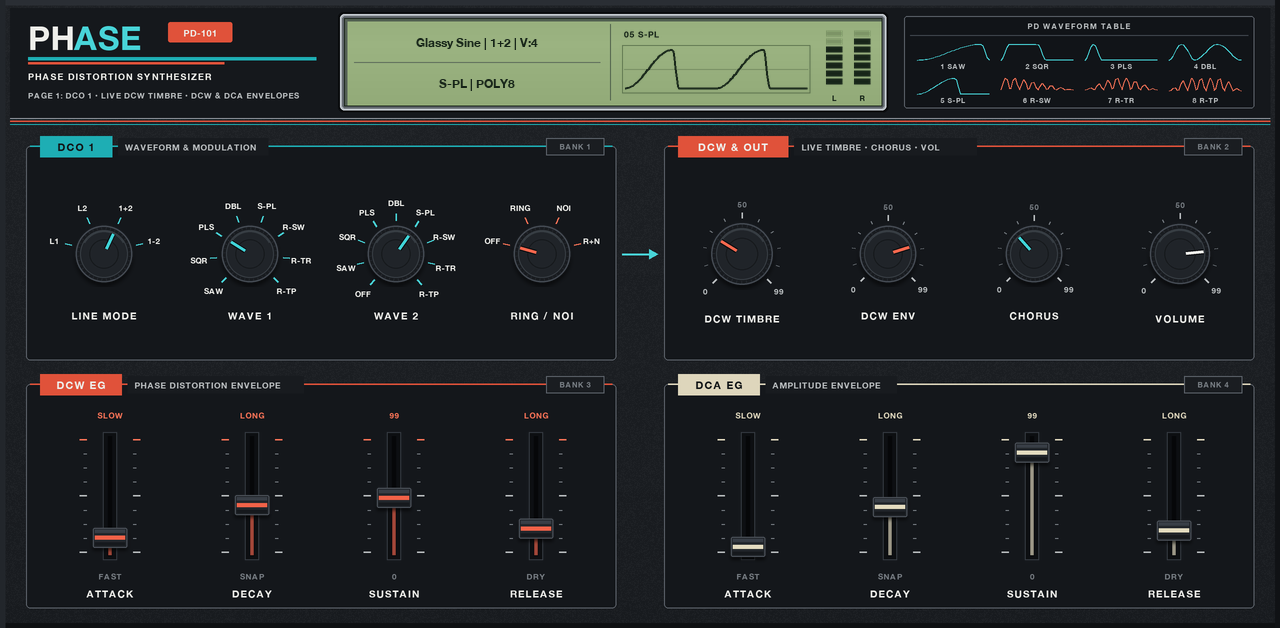
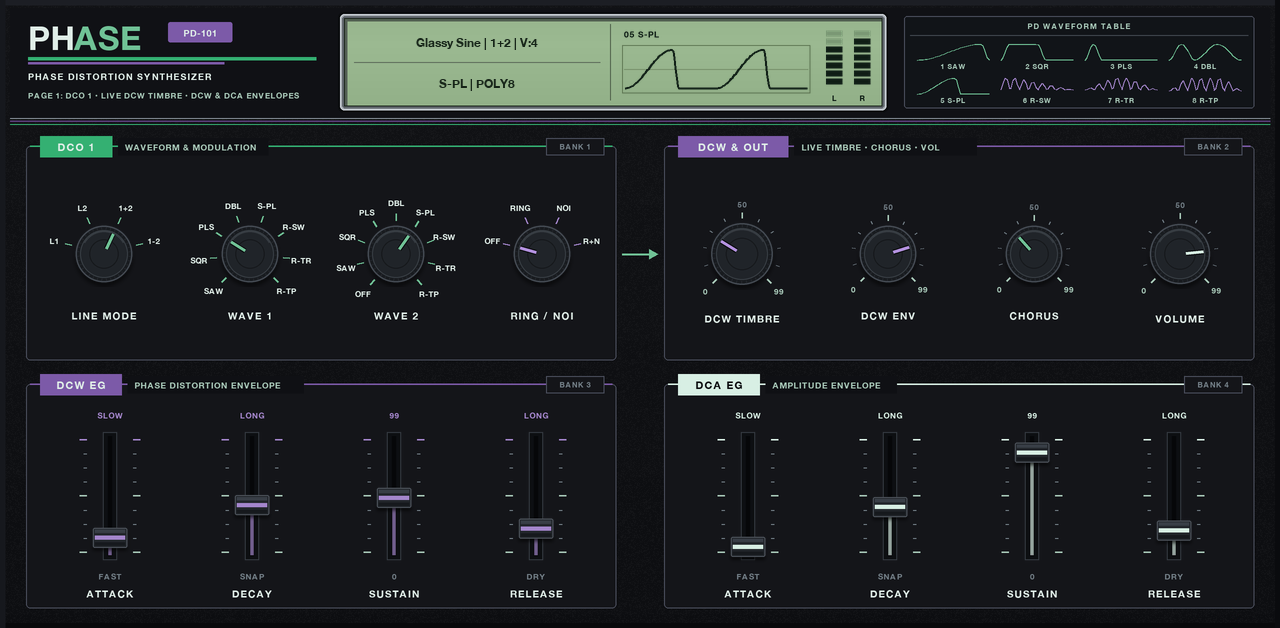
Switch Phase UI faceplate, dials and sliders to purple and green palette

diff --git a/tools/gen_ui_assets.py b/tools/gen_ui_assets.py
@@ -24,25 +24,27 @@ MANIFEST = os.path.join(ROOT, "tools", "ui_manifest.json")
 W, H = 1280, 628
 SS = 2
 
-# 1984 Casio CZ-101 Industrial Palette
-WHITE      = (238, 238, 234, 255)
-OFF_WHITE  = (184, 188, 190, 255)
-MUTED      = (118, 124, 130, 255)
-DARK_INK   = (18, 22, 24, 255)
+# Purple & Green Industrial Palette (matching Johnny's hardware suite)
+WHITE      = (224, 238, 232, 255)  # crisp mint-white
+OFF_WHITE  = (168, 200, 184, 255)  # #A8C8B8
+MUTED      = (114, 126, 134, 255)
+DARK_INK   = (13, 14, 17, 255)     # #0D0E11
 
-CZ_TEAL    = (30, 174, 180, 255)
-CZ_TEAL_HI = (72, 212, 216, 255)
-CZ_CORAL   = (224, 82, 58, 255)
-CZ_CORAL_H = (246, 114, 86, 255)
-CZ_IVORY   = (222, 214, 188, 255)
-CZ_SILVER  = (158, 166, 174, 255)
-CZ_LINE    = (92, 98, 106, 255)
+CZ_TEAL    = (52, 176, 114, 255)   # #34B072 — green primary accent
+CZ_TEAL_HI = (112, 194, 150, 255)  # #70C296 — green highlight / pointers
+CZ_CORAL   = (124, 90, 168, 255)   # #7C5AA8 — purple primary accent
+CZ_CORAL_H = (164, 134, 204, 255)  # #A486CC — purple highlight / resonant waves
+CZ_IVORY   = (216, 239, 228, 255)  # #D8EFE4 — mint-ivory secondary badge & DCA
+CZ_SILVER  = (156, 166, 172, 255)
+CZ_LINE    = (74, 78, 92, 255)
+PURP_BAR   = (90, 62, 122, 255)    # #5A3E7A — purple header/divider
+GRN_BAR    = (38, 94, 72, 255)     # #265E48 — green header bar
 
-# Authentic Casio CZ-101 Silver-Framed Green-Grey LCD
-LCD_BG     = (146, 170, 120, 255)
-LCD_INK    = (22, 36, 24, 255)
-LCD_DIM    = (54, 74, 48, 235)
-LCD_GHOST  = (124, 148, 102, 255)
+# Brushed-Silver Framed Backlit Green-Grey LCD
+LCD_BG     = (146, 176, 136, 255)
+LCD_INK    = (14, 28, 20, 255)
+LCD_DIM    = (42, 68, 52, 235)
+LCD_GHOST  = (122, 152, 116, 255)
 
 
 def load_font(px, bold=True):
@@ -154,17 +156,17 @@ def make_cz101_chassis(seed=101):
     """Authentic 1984 Casio CZ-101 flat matte jet-charcoal molded ABS console body."""
     w, h = W * SS, H * SS
     rng = random.Random(seed)
-    base = Image.new("RGBA", (w, h), (26, 29, 33, 255))
+    base = Image.new("RGBA", (w, h), (13, 14, 17, 255))
     dr = ImageDraw.Draw(base)
 
-    # Subtle matte ABS top-edge studio falloff
+    # Subtle matte dark-chassis top-edge falloff (#0D0E11)
     for y in range(h):
         t = y / float(h)
-        d = int(round(5.0 * (1.0 - t * 1.15)))
-        c = (max(18, 25 + d), max(21, 28 + d), max(24, 32 + d), 255)
+        d = int(round(4.0 * (1.0 - t * 1.15)))
+        c = (max(10, 13 + d), max(11, 14 + d), max(14, 17 + d), 255)
         dr.line([(0, y), (w, y)], fill=c)
 
-    # Fine Casio molded ABS micro-grain
+    # Fine molded ABS micro-grain
     grain = Image.new("RGBA", (w // 2, h // 2), (0, 0, 0, 0))
     px = grain.load()
     for gy in range(h // 2):
@@ -178,17 +180,17 @@ def make_cz101_chassis(seed=101):
     base = Image.alpha_composite(base, grain)
     dr = ImageDraw.Draw(base)
 
-    # Recessed matte outer casing bevel (authentic CZ-101 clean black plastic frame)
-    dr.rectangle([0, 0, w - 1, 5 * SS], fill=(42, 46, 52, 255))
-    dr.rectangle([0, h - 5 * SS, w - 1, h - 1], fill=(14, 16, 18, 255))
-    dr.rectangle([0, 0, 5 * SS, h - 1], fill=(34, 38, 43, 255))
-    dr.rectangle([w - 5 * SS, 0, w - 1, h - 1], fill=(16, 18, 21, 255))
+    # Recessed matte outer casing bevel
+    dr.rectangle([0, 0, w - 1, 5 * SS], fill=(28, 30, 36, 255))
+    dr.rectangle([0, h - 5 * SS, w - 1, h - 1], fill=(8, 9, 11, 255))
+    dr.rectangle([0, 0, 5 * SS, h - 1], fill=(22, 24, 29, 255))
+    dr.rectangle([w - 5 * SS, 0, w - 1, h - 1], fill=(10, 11, 14, 255))
 
-    # Crisp Casio CZ-101 top fascia separator rules (signature white + coral-orange + teal thin lines)
-    dr.rectangle([10 * SS, 8 * SS, w - 10 * SS, 118 * SS], fill=(21, 24, 28, 255))
-    dr.line([(10 * SS, 118 * SS), (w - 10 * SS, 118 * SS)], fill=(145, 152, 160, 220), width=SS)
-    dr.line([(10 * SS, 121 * SS), (w - 10 * SS, 121 * SS)], fill=(224, 82, 58, 210), width=int(1.5 * SS))
-    dr.line([(10 * SS, 124 * SS), (w - 10 * SS, 124 * SS)], fill=(30, 174, 180, 190), width=SS)
+    # Crisp top fascia separator rules (silver + purple #5A3E7A + green #34B072)
+    dr.rectangle([10 * SS, 8 * SS, w - 10 * SS, 118 * SS], fill=(16, 17, 21, 255))
+    dr.line([(10 * SS, 118 * SS), (w - 10 * SS, 118 * SS)], fill=(136, 146, 154, 200), width=SS)
+    dr.line([(10 * SS, 121 * SS), (w - 10 * SS, 121 * SS)], fill=(90, 62, 122, 235), width=int(1.5 * SS))
+    dr.line([(10 * SS, 124 * SS), (w - 10 * SS, 124 * SS)], fill=(52, 176, 114, 205), width=SS)
 
     return base
 
@@ -296,31 +298,31 @@ def draw_cz_schematic_box(img, x, y, w, h, badge_text, sub_text, accent, bank_ta
     dr = ImageDraw.Draw(img)
     x0, y0, x1, y1 = int(x * SS), int(y * SS), int((x + w) * SS), int((y + h) * SS)
 
-    # Slightly darker recessed inner work area + crisp hairline Casio outline
+    # Recessed panel work area (#141519) + crisp hairline outline
     dr.rounded_rectangle([x0, y0 + 10 * SS, x1, y1], radius=4 * SS,
-                         fill=(20, 23, 27, 255), outline=CZ_LINE, width=int(1.25 * SS))
+                         fill=(20, 21, 25, 255), outline=CZ_LINE, width=int(1.25 * SS))
     # Subtle accent hairline along top edge inside box
     dr.line([(x0 + 4 * SS, y0 + 10 * SS), (x1 - 4 * SS, y0 + 10 * SS)], fill=accent, width=int(1.5 * SS))
 
-    # Flat rectangular Casio silkscreen colour badge straddling the top border
+    # Flat rectangular colour badge straddling the top border
     bw = (len(badge_text) * 9.6 + 24) * SS
     bx0 = x0 + 14 * SS
     by0 = y0
     by1 = y0 + 21 * SS
     dr.rectangle([bx0, by0, bx0 + bw, by1], fill=accent)
-    ink = DARK_INK if (accent[0] * 0.3 + accent[1] * 0.59 + accent[2] * 0.11) > 130 else WHITE
+    ink = DARK_INK if (accent[0] * 0.3 + accent[1] * 0.59 + accent[2] * 0.11) > 145 else WHITE
     draw_text(img, badge_text, bx0 + bw / 2.0, (by0 + by1) / 2.0, 10.6, fill=ink, align="center", bold=True, track=0.10)
 
-    # Clean technical sub-label inline on top border with matte-charcoal knock-out gap
+    # Clean technical sub-label inline on top border with chassis knock-out gap
     sub_x = bx0 + bw + 8 * SS
     sub_w = (len(sub_text) * 6.4 + 14) * SS
-    dr.rectangle([sub_x - 2 * SS, by0 + 2 * SS, sub_x + sub_w, by1 - 2 * SS], fill=(24, 27, 31, 255))
+    dr.rectangle([sub_x - 2 * SS, by0 + 2 * SS, sub_x + sub_w, by1 - 2 * SS], fill=(15, 16, 20, 255))
     draw_text(img, sub_text, sub_x + 5 * SS, (by0 + by1) / 2.0 + 0.5 * SS, 8.6, fill=OFF_WHITE, align="left", bold=True, track=0.08)
 
     # Subtle Q-Link bank indicator on right of top line
     tbw = 58 * SS
     tx1 = x1 - 12 * SS
-    dr.rectangle([tx1 - tbw, by0 + 2 * SS, tx1, by1 - 2 * SS], fill=(26, 29, 33, 255), outline=CZ_LINE, width=SS)
+    dr.rectangle([tx1 - tbw, by0 + 2 * SS, tx1, by1 - 2 * SS], fill=(20, 21, 25, 255), outline=CZ_LINE, width=SS)
     draw_text(img, bank_tag, tx1 - tbw / 2.0, (by0 + by1) / 2.0, 7.6, fill=MUTED, align="center", bold=True, track=0.08)
 
 
@@ -748,25 +750,25 @@ def main():
     make_wave_lcd_strip("wave_lcd_8.png", 200, 76)
     make_meter_lcd_strip("meter_lcd_8.png", 20, 62)
 
-    # Flat matte-black CZ-style rotary dials
-    make_flat_cz_dial("dial_cz_teal_pot.png",    66, 65, (64, 212, 216))
-    make_flat_cz_dial("dial_cz_teal_3way.png",   66, 3,  (64, 212, 216), -65, 65)
-    make_flat_cz_dial("dial_cz_teal_4way.png",   66, 4,  (64, 212, 216), -75, 75)
-    make_flat_cz_dial("dial_cz_teal_5way.png",   66, 5,  (64, 212, 216), -100, 100)
-    make_flat_cz_dial("dial_cz_teal_8way.png",   66, 8,  (64, 212, 216), -135, 135)
-    make_flat_cz_dial("dial_cz_teal_9way.png",   66, 9,  (64, 212, 216), -140, 140)
+    # Flat matte-black rotary dials (Green #70C296 & Purple #A486CC / #C4A6EE)
+    make_flat_cz_dial("dial_cz_teal_pot.png",    66, 65, (112, 194, 150))
+    make_flat_cz_dial("dial_cz_teal_3way.png",   66, 3,  (112, 194, 150), -65, 65)
+    make_flat_cz_dial("dial_cz_teal_4way.png",   66, 4,  (112, 194, 150), -75, 75)
+    make_flat_cz_dial("dial_cz_teal_5way.png",   66, 5,  (112, 194, 150), -100, 100)
+    make_flat_cz_dial("dial_cz_teal_8way.png",   66, 8,  (112, 194, 150), -135, 135)
+    make_flat_cz_dial("dial_cz_teal_9way.png",   66, 9,  (112, 194, 150), -140, 140)
 
-    make_flat_cz_dial("dial_cz_coral_hero.png",  72, 65, (246, 104, 78))
-    make_flat_cz_dial("dial_cz_coral_pot.png",   66, 65, (246, 104, 78))
-    make_flat_cz_dial("dial_cz_coral_4way.png",  66, 4,  (246, 104, 78), -75, 75)
+    make_flat_cz_dial("dial_cz_coral_hero.png",  72, 65, (180, 146, 224))
+    make_flat_cz_dial("dial_cz_coral_pot.png",   66, 65, (180, 146, 224))
+    make_flat_cz_dial("dial_cz_coral_4way.png",  66, 4,  (180, 146, 224), -75, 75)
 
-    make_flat_cz_dial("dial_cz_white_hero.png",  70, 65, (240, 240, 236))
-    make_flat_cz_dial("dial_cz_white_pot.png",   66, 65, (226, 228, 226))
+    make_flat_cz_dial("dial_cz_white_hero.png",  70, 65, (216, 239, 228))
+    make_flat_cz_dial("dial_cz_white_pot.png",   66, 65, (216, 239, 228))
 
-    # Compact Casio CZ-101 mini-sliders
-    make_cz_mini_slider("slider_cz_coral.png", 44, 144, 65, (242, 98, 72))
-    make_cz_mini_slider("slider_cz_ivory.png", 44, 144, 65, (228, 220, 192))
-    make_cz_mini_slider("slider_cz_teal.png",  44, 144, 65, (64, 208, 212))
+    # Compact mini-sliders (Purple #A486CC, Mint-Ivory #D8EFE4, Green #70C296)
+    make_cz_mini_slider("slider_cz_coral.png", 44, 144, 65, (164, 134, 204))
+    make_cz_mini_slider("slider_cz_ivory.png", 44, 144, 65, (216, 239, 228))
+    make_cz_mini_slider("slider_cz_teal.png",  44, 144, 65, (112, 194, 150))
 
     with open(MANIFEST, "w", encoding="utf-8") as fh:
         json.dump({"page1": p1, "page2": p2}, fh, indent=2)
